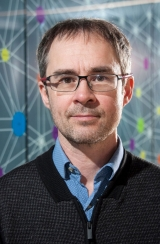
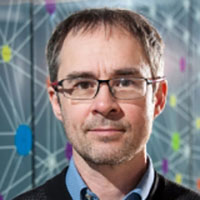
update to the about page

diff --git a/about.html b/about.html
@@ -61,10 +61,185 @@
 
   <!-- Pictures sections -->
   <section>
-    <div class="section-content flex">
-      <div class="team-photo">
-        <img src="images/team/team-alan-evans.jpg">
-        <p class="center">Alan Evans</p>
+    <div class="section-content">
+      <h1 class="text-center spacer">CBRAIN TEAM MEMBERS</h1>
+      <div class="team-box">
+        <div class="team-photo">
+          <img src="images/team/team-alan-evans.jpg">
+          <p class="center"><strong>Alan Evans, PhD</strong> <br>
+          James McGill Professor of Neurology and Neurosurgery, Psychiatry and Biomedical Engineering<br>
+          Montreal Neurological Institute (MNI)<br>
+          McGill University<br>
+          </p>
+        </div>
+        <div class="team-photo">
+          <img src="images/team/profile-temp.png">
+          <p class="center"><strong>Bryan L. Caron, PhD</strong> <br>
+          Director, Operations and Development, NeuroHub and CBRAIN<br>
+          </p>
+        </div>
+        <div class="team-photo">
+          <img src="images/team/team-pr.jpg">
+          <p class="center"><strong>Pierre Rioux</strong> <br>
+          Senior Research Platform Developer, Lead Developer<br>
+          </p>
+        </div>
+        <div class="team-photo">
+          <img src="images/team/team-nat.jpg">
+          <p class="center"><strong>Natacha Beck</strong> <br>
+          Senior Research Platform Developer<br>
+          </p>
+        </div>
+        <div class="team-photo">
+          <img src="images/team/team-serge.jpg">
+          <p class="center"><strong>Serge Boroday</strong> <br>
+          Research Platform Developer<br>
+          </p>
+        </div>
+        <div class="team-photo">
+          <img src="images/team/team-darcy.jpg">
+          <p class="center"><strong>Darcy Quesnel</strong> <br>
+          Research Platform Developer<br>
+          </p>
+        </div>
+        <div class="team-photo">
+          <img src="images/team/team-xavier.jpg">
+          <p class="center"><strong>Xavier Lecours-Boucher</strong> <br>
+          Research Platform Developer<br>
+          </p>
+        </div>
+        <div class="team-photo">
+          <img src="images/team/team-naj.jpg">
+          <p class="center"><strong>Najmeh Kalili-Manhani, PhD</strong> <br>
+          Senior Research Associate, McGill Centre for Integrative Neuroscience<br>
+          Affiliate Assistant Professor, Department of Electrical and Computer Engineering, Concordia University<br>
+          </p>
+        </div>
+        <div class="team-photo">
+          <img src="images/team/profile-temp.png">
+          <p class="center"><strong>Darius Valevicius</strong> <br>
+          Research Platform Developer<br>
+          </p>
+        </div>
+        <div class="team-photo">
+          <img src="images/team/profile-temp.png">
+          <p class="center"><strong>Safa Sanami</strong> <br>
+          Research Assistant, PERFORM Centre<br>
+          Concordia University<br>
+          </p>
+        </div>
+        <div class="team-photo">
+          <img src="images/team/team-reza-adalat.jpg">
+          <p class="center"><strong>Reza Adalat</strong> <br>
+          Associate Director of Operations<br>
+          </p>
+        </div>
+      </div>
+    </div>
+  </section>
+
+  <section class="lt-blue-bg">
+    <div class="section-content">
+      <h1 class="text-center spacer">AFFILIATED TEAM MEMBERS</h1>
+      <div class="team-box">
+        <div class="team-photo">
+          <img src="images/team/team-tristan.jpg">
+          <p class="center"><strong>Tristan Glatard, PhD</strong> <br>
+          Associate Professor, Département of Computer and Software Engineering, Concordia University<br>
+          </p>
+        </div>
+        <div class="team-photo">
+          <img src="images/team/team-jb.jpg">
+          <p class="center"><strong>Jean-Baptiste Pouline, PhD</strong> <br>
+          Associate Professor, Department of Neurology and Neurosurgery, Montreal Neurological Institute (MNI), McGill University<br>
+          </p>
+        </div>
+        <div class="team-photo">
+          <img src="images/team/team-samir.jpg">
+          <p class="center"><strong>Samir Das</strong> <br>
+          Associate Director of Research Software Development<br>
+          </p>
+        </div>
+      </div>
+    </div>
+  </section>
+
+  <section class="">
+    <div class="section-content ">
+      <h1 class="text-center spacer">AFFILIATED TEAM MEMBERS</h1>
+      <div class="team-box">
+        <div class="team-photo">
+          <p class="center"><strong>Adam Trefonides</strong>
+          </p>
+        </div>
+        <div class="team-photo">
+          <p class="center"><strong>Andrew Doyle</strong>
+          </p>
+        </div>
+        <div class="team-photo">
+          <p class="center"><strong>Angela McCloskey</strong>
+          </p>
+        </div>
+        <div class="team-photo">
+          <p class="center"><strong>Anton Zoubarev</strong> 
+          </p>
+        </div>
+        <div class="team-photo">
+          <p class="center"><strong>Armin Taheri</strong> 
+          </p>
+        </div>
+        <div class="team-photo">
+          <p class="center"><strong>Candice Czech</strong>
+          </p>
+        </div>
+        <div class="team-photo">
+          <p class="center"><strong>Ehsan Afkhami</strong>
+          </p>
+        </div>
+        <div class="team-photo">
+          <p class="center"><strong>Greg Kiar</strong> 
+          </p>
+        </div>
+        <div class="team-photo">
+          <p class="center"><strong>Liam O’Callaghan</strong>
+          </p>
+        </div>
+        <div class="team-photo">
+          <p class="center"><strong>Marc Rousseau</strong> 
+          </p>
+        </div>
+        <div class="team-photo">
+          <p class="center"><strong>Mathieu Desrosiers</strong>
+          </p>
+        </div>
+        <div class="team-photo">
+          <p class="center"><strong>Nicolas Kassis</strong>
+          </p>
+        </div>
+        <div class="team-photo">
+          <p class="center"><strong>Rémi Bernard</strong>
+          </p>
+        </div>
+        <div class="team-photo">
+          <p class="center"><strong>Shawn Brown</strong>
+          </p>
+        </div>
+        <div class="team-photo">
+          <p class="center"><strong>Sonam Tamang</strong>
+          </p>
+        </div>
+        <div class="team-photo">
+          <p class="center"><strong>Tarek Sherif</strong>
+          </p>
+        </div>
+        <div class="team-photo">
+          <p class="center"><strong>Tristan Aumentado-Armstrong</strong>
+          </p>
+        </div>
+        <div class="team-photo">
+          <p class="center"><strong>Verena Schuster</strong>
+          </p>
+        </div>
       </div>
     </div>
   </section>

diff --git a/css/styles.css b/css/styles.css
@@ -553,14 +553,33 @@ ul.hide {
 .info-box:hover {
   box-shadow: 1px 1px 8px rgba(0, 0, 0, .25);
 }
+.team-box {
+  display: flex;
+  justify-content: center;
+  align-items: flex-start;
+  flex-wrap: wrap;
+}
 .team-photo {
   display: flex;
   flex-direction: column;
   justify-content: center;
+  width: calc(100% - 20px);
+  margin: 10px;
+}
+@media screen and (min-width: 600px){
+  .team-photo {
+    width: calc(33% - 20px);
+  }
 }
 .team-photo img {
   border-radius: 100px;
   margin-bottom: 20px;
+  max-width: 200px;
+  margin-left: auto;
+  margin-right: auto;
+}
+.team-photo p {
+  font-size: .85em;
 }
 /* footer */
 
